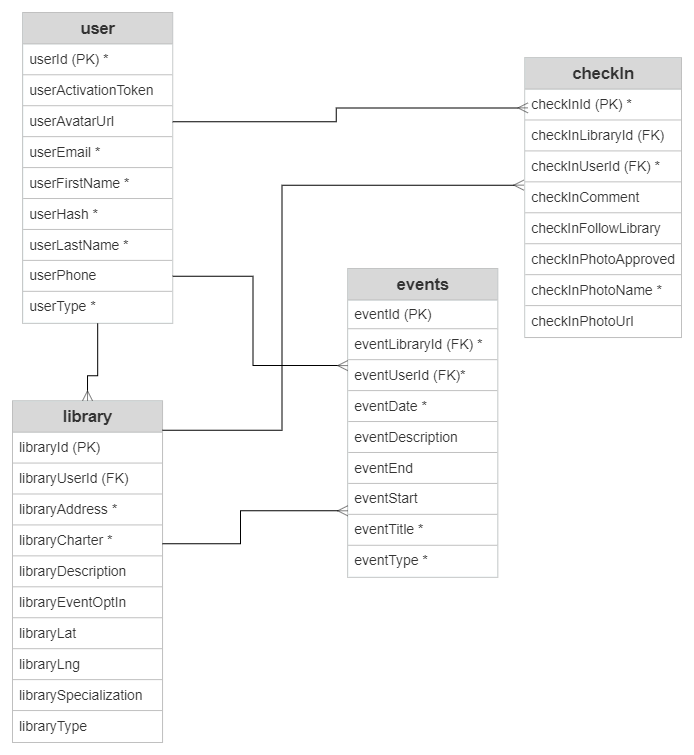
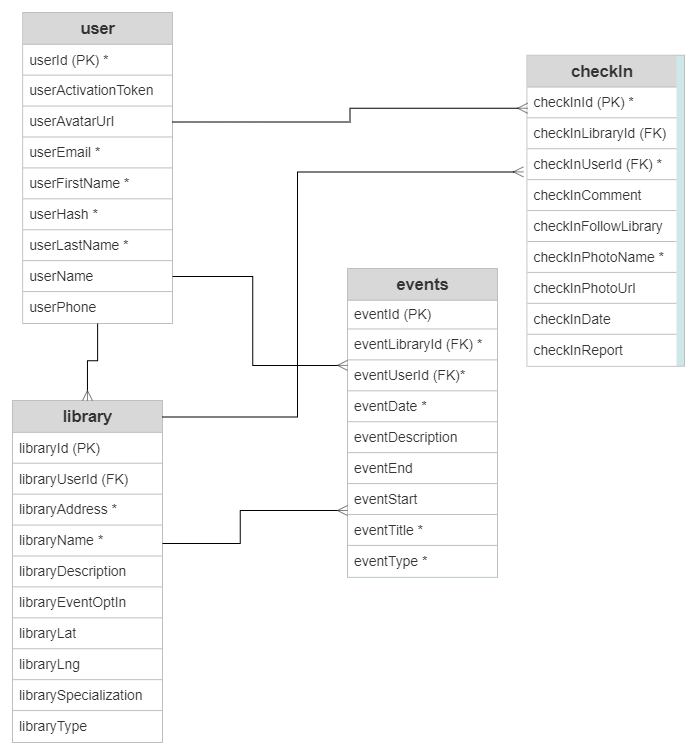
Final ERD uploaded

diff --git a/public_html/documentation/entity-relationship-diagram/erd.html b/public_html/documentation/entity-relationship-diagram/erd.html
@@ -20,7 +20,7 @@
 	<li>userHash *</li>
 	<li>userLastName *</li>
 	<li>userPhone</li>
-	<li>userType *</li>
+	<li>userName</li>
 </ul>
 <h4>library</h4>
 <ul>
@@ -54,9 +54,10 @@
 	<li>checkInUserId (FK) *</li>
 	<li>checkInComment</li>
 	<li>checkInFollowLibrary</li>
-	<li>checkInPhotoApproved</li>
-	<li>checkInPhotoName *</li>
+	<li>checkInPhotoName</li>
 	<li>checkInPhotoUrl</li>
+	<li>checkInDate *</li>
+	<li>checkInReport</li>
 </ul>
 <h3>Relationships</h3>
 <h4>user</h4>
